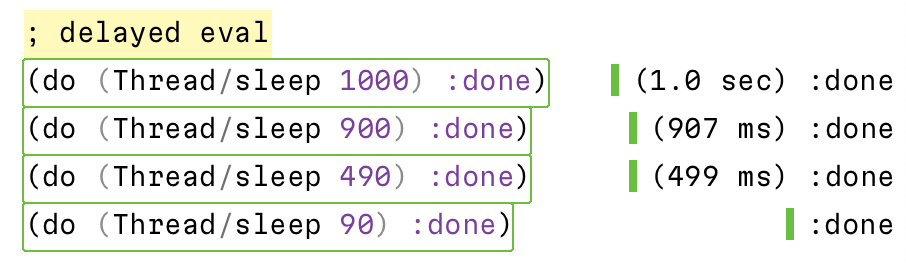
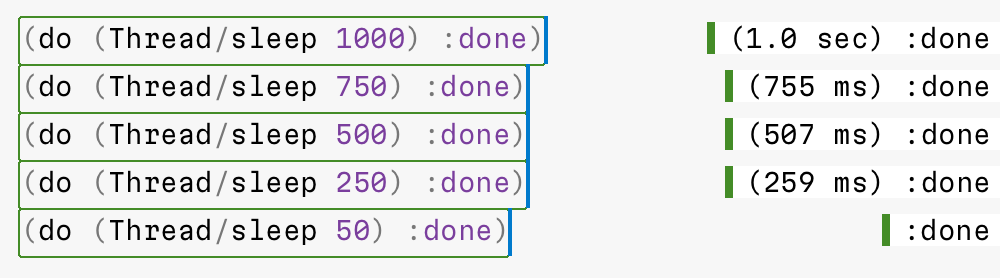
Fixed images for elapsed and symbol_info

diff --git a/README.md b/README.md
@@ -114,7 +114,7 @@ You don’t have to wait for one form to finish evaluating to evaluate something
 
 By default, Sublime Clojure will also print evaluation time if it took more than 100 ms:
 
-<img src="https://raw.github.com/tonsky/sublime-clojure/master/screenshots/eval_elapsed.png" width="453" height="134" alt="Elapsed time">
+<img src="https://raw.github.com/tonsky/sublime-clojure/master/screenshots/eval_elapsed.png" width="500" height="139" alt="Elapsed time">
 
 If your evaluation runs too long and you want to interrupt it, run `Clojure REPL: Interrupt Pending Evaluations`:
 
@@ -126,7 +126,7 @@ If your evaluation failed, put your cursor inside failed region and run `Clojure
 
 To show symbol info, run `Clojure REPL: Toggle Symbol Info`:
 
-<img src="https://raw.github.com/tonsky/sublime-clojure/master/screenshots/lookup.png" width="593" height="143" alt="Lookup Symbol">
+<img src="https://raw.github.com/tonsky/sublime-clojure/master/screenshots/symbol_info.png" width="580" height="172" alt="Toggle Symbol Info">
 
 Universal `Clojure REPL: Toggle Info` command acts as either `Toggle Stacktrace` or `Toggle Symbol Info`, depending on context.
 
